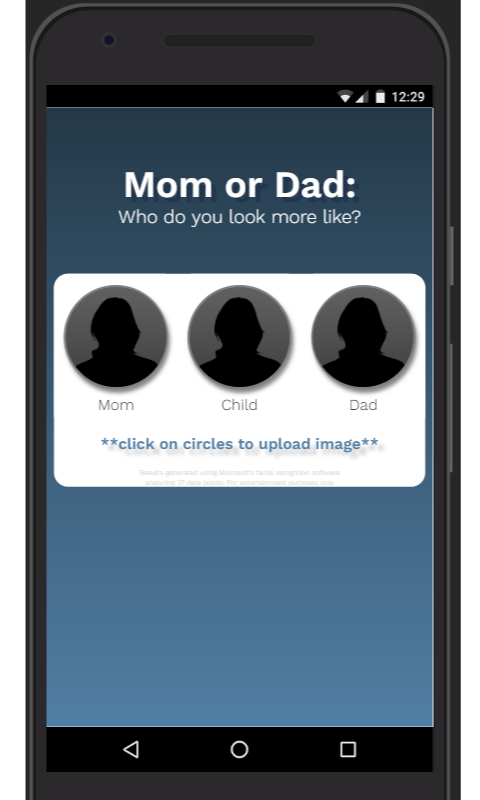
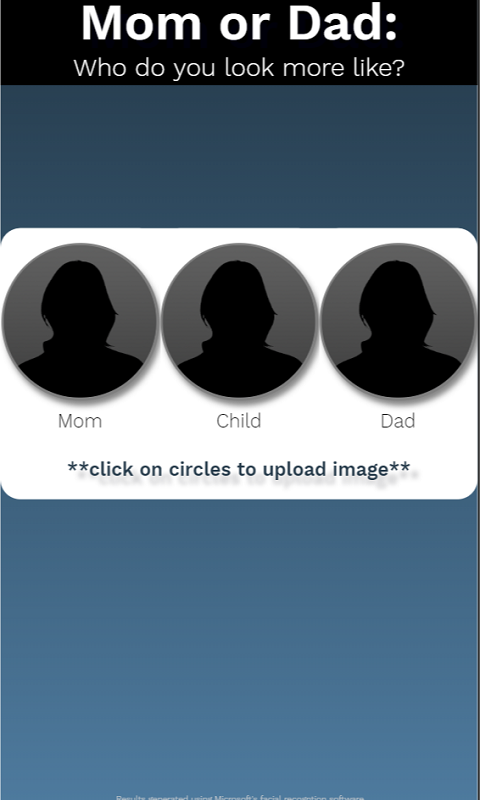
adjusted border radius to 0 on mobile

diff --git a/src/App.js b/src/App.js
@@ -37,7 +37,8 @@ class App extends Component {
      kidBorder:'gray',
       results: '**click on circles to upload image**',
       momConfidence:'',
-      dadConfidence:''
+      dadConfidence:'',
+      uploadReady:true
     },
     this.handleMomClick = () => { this.inputMomOpenFileRef.current.click(); },
     this.handleChildClick = () => { this.inputChildOpenFileRef.current.click() },
@@ -64,7 +65,7 @@ class App extends Component {
       }),
   })
   .done( data => {
-    var momResult = parseInt(data.confidence.toFixed(2)*100,10) + '% match';
+    var momResult = parseInt(data.confidence.toFixed(2)*100,10) + '% similar';
     var momConfidence =data.confidence;
     component.setState({momResult, momConfidence})
     if((component.state.dadConfidence !=='') &&( component.state.momConfidence !=='')){
@@ -96,7 +97,7 @@ $.ajax({
   }),
 })
 .done( data => {
-var dadResult = parseInt(data.confidence.toFixed(2)*100,10) + '% match';
+var dadResult = parseInt(data.confidence.toFixed(2)*100,10) + '% similar';
 var dadConfidence =data.confidence;
 component.setState({dadResult,dadConfidence});
 if((component.state.dadConfidence !=='') &&( component.state.momConfidence !=='')){
@@ -116,7 +117,8 @@ if((component.state.dadConfidence !=='') &&( component.state.momConfidence !==''
   }
 }
 ,this.onChangeMomFile = (event) => {
-  this.setState({results: 'Compressing Image', momResult:'', dadResult:'',kidResult:''});
+  if(this.state.uploadReady){
+  this.setState({results: 'Compressing Image', momResult:'', dadResult:'',kidResult:'',uploadReady:false});
   event.stopPropagation();
   event.preventDefault();
   var file = event.target.files[0];
@@ -149,7 +151,7 @@ if((component.state.dadConfidence !=='') &&( component.state.momConfidence !==''
   .done( data => {
       if(data[0] === undefined){  component.setState({ results: 'Face not detected'})}
       else{var momFaceId = data[0].faceId;
-       component.setState({momFaceId, results: '', momBorder:'black'})
+       component.setState({momFaceId, results: '', momBorder:'black', kidResult:'', uploadReady:true})
        component.check()};
 
   }) .fail( error => {
@@ -159,7 +161,8 @@ if((component.state.dadConfidence !=='') &&( component.state.momConfidence !==''
   })}).catch(error => {
     component.setState({results: error});
    });     }});
- }
+ } else {component.setState({kidResult: 'please wait for last picture to finish'})}
+}
  ,this.onChangeChildFile = (event) => {
   this.setState({results: 'Compressing Image', momResult:'', dadResult:'',kidResult:''});
   event.stopPropagation();
@@ -261,7 +264,7 @@ if((component.state.dadConfidence !=='') &&( component.state.momConfidence !==''
               <h5 className="desc">Who do you look more like? </h5>
        </header>
       
-      <div className='container' style={{backgroundColor:'white',color:'black', borderRadius:'15px'}}>
+      <div className='container' style={{backgroundColor:'white'}}>
      
           <input ref={this.inputMomOpenFileRef} type="file" accept="image/*"  style={{display:"none"}} onChange={this.onChangeMomFile}/>
                
@@ -288,9 +291,7 @@ if((component.state.dadConfidence !=='') &&( component.state.momConfidence !==''
         <div>
         <h3>{this.state.results}</h3>
         <br/>
-  
         </div> 
-
       </div>
       <div className = 'footer'>
         <p>Results generated using Microsoft's facial recogntion software</p>

diff --git a/src/App.css b/src/App.css
@@ -1,28 +1,12 @@
 @import url('https://fonts.googleapis.com/css?family=Work+Sans:300,600');
 
 
-/* #root{
-  display:flex;
-  flex-direction: row;
-  align-items: center;
-  height:85vh;
-  width: 94vmin;
-  margin: 0 auto;
-  padding-right:0 2vmin;
-  margin-left:-0.5vmin;
-
-} */
-
 @media screen and (orientation:landscape) {
 .App {
   text-align: center;
   margin: 0 auto;
   width:96vmin;
   font-family: 'Work Sans', sans-serif;
-  /* display: flex;
-  flex-direction: column;
-  align-items: center; */
-
 }
 
 .header {
@@ -197,9 +181,6 @@ border-radius: 15px;
    right:0;
    margin:auto 0;
     width:100%;
-  /* height: 50vh;  
-   max-height: 55vh; */
-    /* bottom:0; */
     top:28vh;
   }
   
@@ -257,7 +238,12 @@ border-radius: 15px;
     font-size: 1.8vmin;
   }
   
-  
+  .container{
+    border-radius: 0px;
+    margin:0 auto;
+    width:100vmin;
+  }
+
   #mom, #dad, #child{
     border-radius: 50%;
     object-fit: contain;
@@ -275,7 +261,7 @@ border-radius: 15px;
   .mom,.dad, .child{
     width: 33%;
   background-color: white;
-  border-radius: 15px;
+  border-radius: 0px;
   }
   }
   
